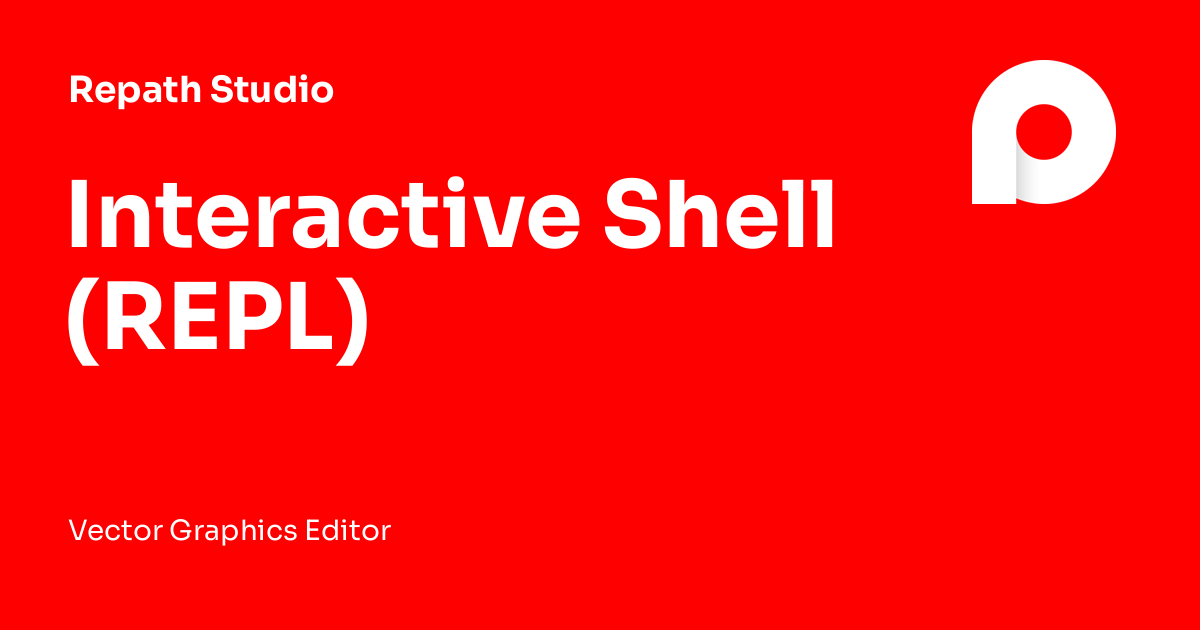
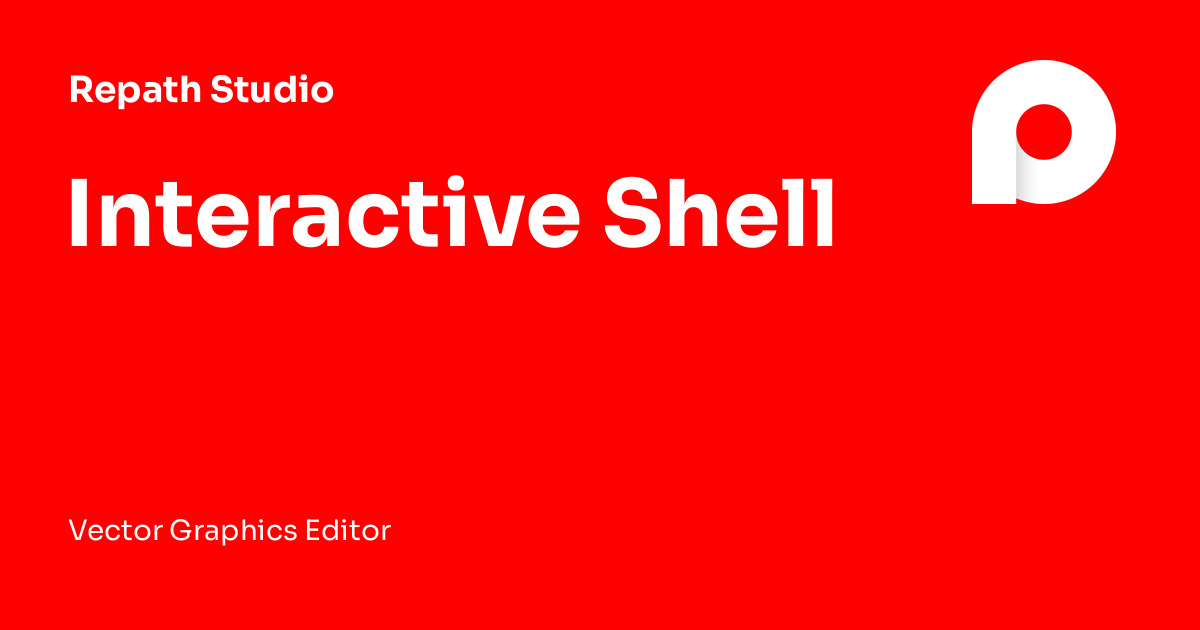
Deployed b632d2a with MkDocs version: 1.6.1

diff --git a/get-started/interactive-shell/index.html b/get-started/interactive-shell/index.html
@@ -23,7 +23,7 @@
     
     
       
-        <title>Interactive Shell (REPL) - Repath Studio</title>
+        <title>Interactive Shell - Repath Studio</title>
       
     
     
@@ -54,7 +54,7 @@
       
         <meta property="og:type" content="website">
       
-        <meta property="og:title" content="Interactive Shell (REPL) - Repath Studio">
+        <meta property="og:title" content="Interactive Shell - Repath Studio">
       
         <meta property="og:description" content="Vector Graphics Editor">
       
@@ -70,7 +70,7 @@
       
         <meta name="twitter:card" content="summary_large_image">
       
-        <meta name="twitter:title" content="Interactive Shell (REPL) - Repath Studio">
+        <meta name="twitter:title" content="Interactive Shell - Repath Studio">
       
         <meta name="twitter:description" content="Vector Graphics Editor">
       
@@ -138,7 +138,7 @@
         <div class="md-header__topic" data-md-component="header-topic">
           <span class="md-ellipsis">
             
-              Interactive Shell (REPL)
+              Interactive Shell
             
           </span>
         </div>
@@ -535,7 +535,7 @@
   
   
   <span class="md-ellipsis">
-    Interactive Shell (REPL)
+    Interactive Shell
     
   </span>
   
@@ -548,7 +548,7 @@
   
   
   <span class="md-ellipsis">
-    Interactive Shell (REPL)
+    Interactive Shell
     
   </span>
   

diff --git a/contribute/contributing/index.html b/contribute/contributing/index.html
@@ -523,7 +523,7 @@
   
   
   <span class="md-ellipsis">
-    Interactive Shell (REPL)
+    Interactive Shell
     
   </span>
   
@@ -1476,7 +1476,7 @@ Ctrl+R       -&gt; Reload app
           <!-- Link to previous page -->
           
             
-            <a href="../../get-started/interactive-shell/" class="md-footer__link md-footer__link--prev" aria-label="Previous: Interactive Shell (REPL)">
+            <a href="../../get-started/interactive-shell/" class="md-footer__link md-footer__link--prev" aria-label="Previous: Interactive Shell">
               <div class="md-footer__button md-icon">
                 
                 <svg xmlns="http://www.w3.org/2000/svg" viewBox="0 0 24 24"><path d="M20 11v2H8l5.5 5.5-1.42 1.42L4.16 12l7.92-7.92L13.5 5.5 8 11z"></path></svg>
@@ -1486,7 +1486,7 @@ Ctrl+R       -&gt; Reload app
                   Previous
                 </span>
                 <div class="md-ellipsis">
-                  Interactive Shell (REPL)
+                  Interactive Shell
                 </div>
               </div>
             </a>

diff --git a/get-started/shortcuts/index.html b/get-started/shortcuts/index.html
@@ -536,7 +536,7 @@
   
   
   <span class="md-ellipsis">
-    Interactive Shell (REPL)
+    Interactive Shell
     
   </span>
   
@@ -1516,13 +1516,13 @@
           <!-- Link to next page -->
           
             
-            <a href="../interactive-shell/" class="md-footer__link md-footer__link--next" aria-label="Next: Interactive Shell (REPL)">
+            <a href="../interactive-shell/" class="md-footer__link md-footer__link--next" aria-label="Next: Interactive Shell">
               <div class="md-footer__title">
                 <span class="md-footer__direction">
                   Next
                 </span>
                 <div class="md-ellipsis">
-                  Interactive Shell (REPL)
+                  Interactive Shell
                 </div>
               </div>
               <div class="md-footer__button md-icon">

diff --git a/roadmap/milestones/index.html b/roadmap/milestones/index.html
@@ -523,7 +523,7 @@
   
   
   <span class="md-ellipsis">
-    Interactive Shell (REPL)
+    Interactive Shell
     
   </span>
   
@@ -1329,7 +1329,7 @@
 
 <h1 id="repath-studio-roadmap">Repath Studio - Roadmap<a class="headerlink" href="#repath-studio-roadmap" title="Permanent link">¶</a></h1>
 <p>This document describes the current status and the upcoming milestones of the Repath Studio project.</p>
-<p><em>Updated: Thu, 30 Oct 2025 07:31:23 GMT</em></p>
+<p><em>Updated: Thu, 30 Oct 2025 07:43:26 GMT</em></p>
 <h4 id="milestone-summary">Milestone Summary<a class="headerlink" href="#milestone-summary" title="Permanent link">¶</a></h4>
 <table>
 <thead>

diff --git a/404.html b/404.html
@@ -477,7 +477,7 @@
   
   
   <span class="md-ellipsis">
-    Interactive Shell (REPL)
+    Interactive Shell
     
   </span>
   

diff --git a/blog/2025/09/12/nlnet-quarterly-update/index.html b/blog/2025/09/12/nlnet-quarterly-update/index.html
@@ -523,7 +523,7 @@
   
   
   <span class="md-ellipsis">
-    Interactive Shell (REPL)
+    Interactive Shell
     
   </span>
   

diff --git a/blog/2025/09/25/a-quick-ui-progress-recap/index.html b/blog/2025/09/25/a-quick-ui-progress-recap/index.html
@@ -523,7 +523,7 @@
   
   
   <span class="md-ellipsis">
-    Interactive Shell (REPL)
+    Interactive Shell
     
   </span>
   

diff --git a/blog/archive/2025/index.html b/blog/archive/2025/index.html
@@ -523,7 +523,7 @@
   
   
   <span class="md-ellipsis">
-    Interactive Shell (REPL)
+    Interactive Shell
     
   </span>
   

diff --git a/blog/category/devlog/index.html b/blog/category/devlog/index.html
@@ -523,7 +523,7 @@
   
   
   <span class="md-ellipsis">
-    Interactive Shell (REPL)
+    Interactive Shell
     
   </span>
   

diff --git a/blog/category/nlnet-funding/index.html b/blog/category/nlnet-funding/index.html
@@ -523,7 +523,7 @@
   
   
   <span class="md-ellipsis">
-    Interactive Shell (REPL)
+    Interactive Shell
     
   </span>
   

diff --git a/blog/index.html b/blog/index.html
@@ -523,7 +523,7 @@
   
   
   <span class="md-ellipsis">
-    Interactive Shell (REPL)
+    Interactive Shell
     
   </span>
   

diff --git a/contribute/CLA/index.html b/contribute/CLA/index.html
@@ -523,7 +523,7 @@
   
   
   <span class="md-ellipsis">
-    Interactive Shell (REPL)
+    Interactive Shell
     
   </span>
   
